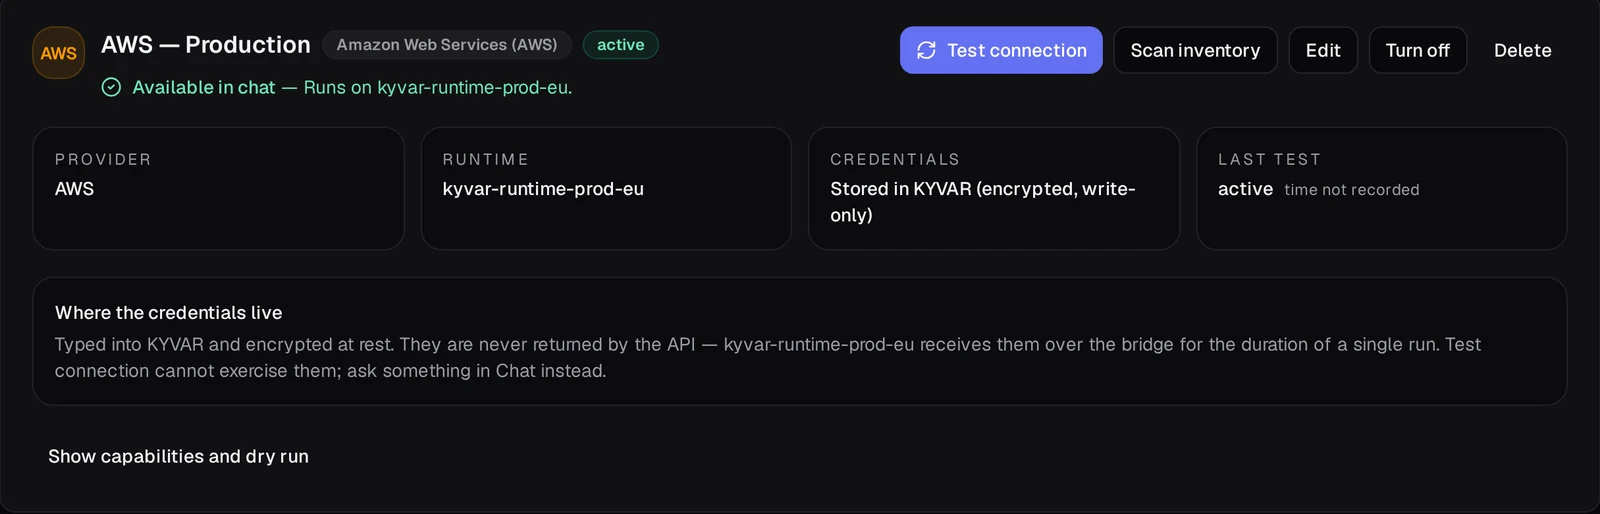
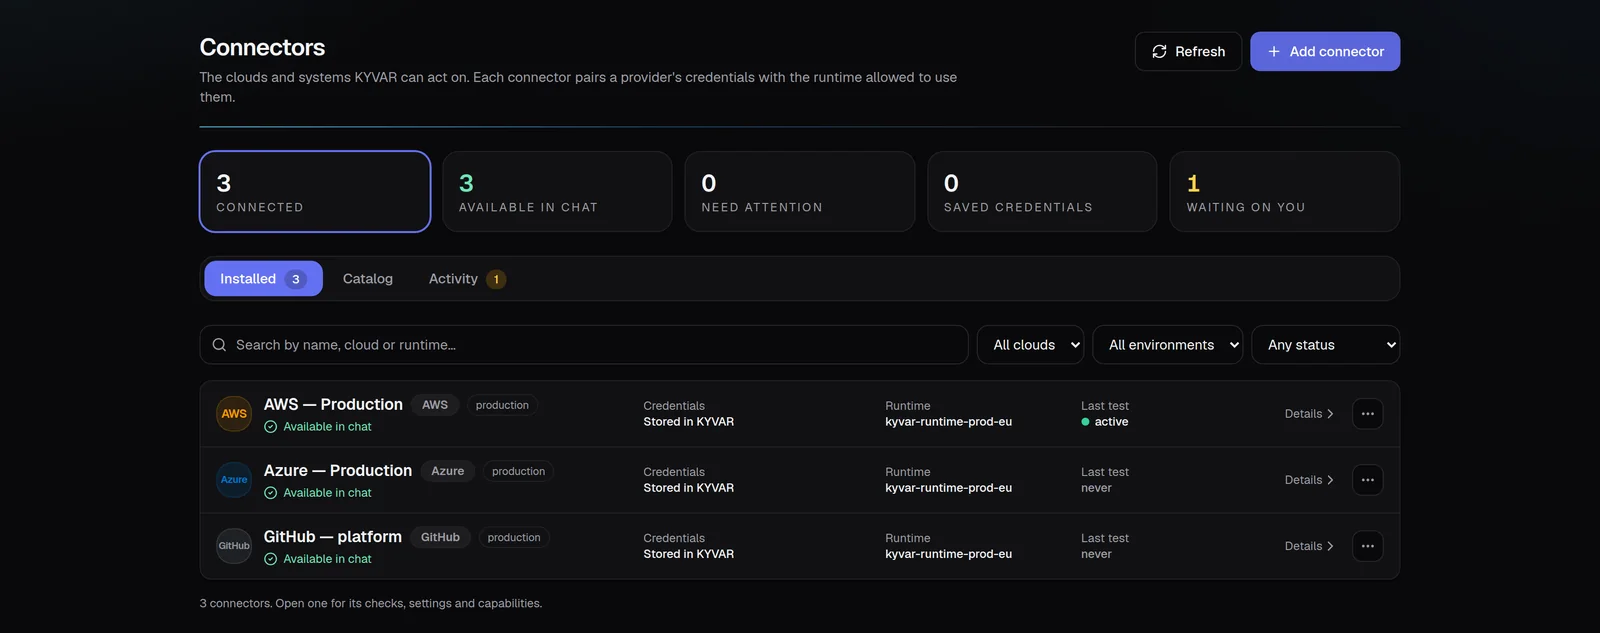
Refresh the product screenshots for the current console (#5)
Every frame recaptured from the current build on a staged, production-shaped
estate (AWS + Azure + GitHub connectors, one runtime, a real governed run,
a parked approval, incidents in three states, a CNAPP finding on the asset
it belongs to), dark and light, cropped to the card that carries the point
so each shot shows one thing instead of a scroll of text.

- Replaced: overview, chat, approvals, monitors, inventory (list, assets,
  map), connectors, runtimes, runs.
- New: incidents (Day 2 beside monitors), run detail (the record a reviewer
  opens, on Security), and an "On your phone" section with the chat on a
  390px screen and the push-notifications card.
- Captions shortened to one sentence each.
- A shotframe outside the .shots grid needs min-width:0 on its column, or
  the 780px swipe image pans the whole page sideways on a phone (measured).

Claude-Session: https://claude.ai/code/session_01PDNJC8ud13upLgmMcDyu2R

diff --git a/index.html b/index.html
@@ -165,23 +165,23 @@
     <div class="wide">
       <div class="shotframe">
         <div class="shotbar"><i></i><i></i><i></i><span>app.kyvar.io — Operations overview</span></div>
-        <picture><source srcset="assets/screenshots/overview-light.webp" media="(prefers-color-scheme: light)"><img src="assets/screenshots/overview.webp" alt="KYVAR operations overview: connected architecture, runtimes online, runs, approvals waiting and inventory" width="1600" height="961"></picture>
+        <picture><source srcset="assets/screenshots/overview-light.webp" media="(prefers-color-scheme: light)"><img src="assets/screenshots/overview.webp" alt="KYVAR operations overview: readiness, what needs a person, and the connected architecture from tenant to clouds" width="1600" height="664"></picture>
       </div>
-      <div class="shotcap">The estate at a glance: connected architecture from tenant to clouds, runtimes online, runs, approvals waiting on you, and everything discovered — one operational view.</div>
+      <div class="shotcap">The estate at a glance: can KYVAR run right now, what needs a person, and the live architecture from tenant to clouds.</div>
     </div>
     <div class="wide">
       <div class="shotframe">
         <div class="shotbar"><i></i><i></i><i></i><span>app.kyvar.io — Chat · governed run</span></div>
-        <picture><source srcset="assets/screenshots/chat-approval-light.webp" media="(prefers-color-scheme: light)"><img src="assets/screenshots/chat-approval.webp" alt="KYVAR chat: a CVE patched through a governed run, with the next change waiting for approval" width="1590" height="1000" loading="lazy"></picture>
+        <picture><source srcset="assets/screenshots/chat-approval-light.webp" media="(prefers-color-scheme: light)"><img src="assets/screenshots/chat-approval.webp" alt="KYVAR chat: a CVE patched through a governed run — the steps it took, what changed, how long it took — and the next change waiting for approval" width="1600" height="893" loading="lazy"></picture>
       </div>
-      <div class="shotcap">One ask in plain English: a critical CVE patched with zero downtime — drained, upgraded, verified — and the next write parked on the approval gate.</div>
+      <div class="shotcap">One ask in plain English. The steps it took, what changed, how long it took — and the next write parked on the approval gate.</div>
     </div>
     <div class="wide">
       <div class="shotframe">
         <div class="shotbar"><i></i><i></i><i></i><span>app.kyvar.io — Approvals</span></div>
-        <picture><source srcset="assets/screenshots/approvals-light.webp" media="(prefers-color-scheme: light)"><img src="assets/screenshots/approvals.webp" alt="KYVAR approvals: a high-risk provisioning action held by policy until a person approves it" width="1600" height="296" loading="lazy"></picture>
+        <picture><source srcset="assets/screenshots/approvals-light.webp" media="(prefers-color-scheme: light)"><img src="assets/screenshots/approvals.webp" alt="KYVAR approvals: a provisioning request held by policy until a person approves it" width="1600" height="404" loading="lazy"></picture>
       </div>
-      <div class="shotcap">Nothing here runs until a person says yes: the matched policy rule and the exact word that tripped it, the risk class, and an approve or deny — one at a time or in bulk — whose reason lands in the audit trail.</div>
+      <div class="shotcap">Nothing runs until a person says yes: the rule that parked it, the word that tripped it, the risk — and a reason that lands in the audit trail.</div>
     </div>
   </div>
 </div></section>
@@ -207,13 +207,22 @@
   <div class="kicker">DAY 2 — OPERATE WITHOUT DRAMA</div>
   <h2>Detect. Heal. Prove it.</h2>
   <p>Automatic monitoring, incidents and self-healing run as one governed loop. Down at 03:14, an incident opened, diagnosed, remediated by the runbook you already wrote and re-verified — with a human woken only when policy wants one, and the whole story on one timeline.</p>
-  <div class="shots"><div class="wide">
-    <div class="shotframe">
-      <div class="shotbar"><i></i><i></i><i></i><span>app.kyvar.io — Monitors</span></div>
-      <picture><source srcset="assets/screenshots/monitors-light.webp" media="(prefers-color-scheme: light)"><img src="assets/screenshots/monitors.webp" alt="KYVAR monitors: scheduled health checks with autonomous remediation armed per monitor" width="1600" height="725" loading="lazy"></picture>
+  <div class="shots">
+    <div class="wide">
+      <div class="shotframe">
+        <div class="shotbar"><i></i><i></i><i></i><span>app.kyvar.io — Incidents</span></div>
+        <picture><source srcset="assets/screenshots/incidents-light.webp" media="(prefers-color-scheme: light)"><img src="assets/screenshots/incidents.webp" alt="KYVAR incidents: what is broken right now, who has it, and how it ended" width="1600" height="524" loading="lazy"></picture>
+      </div>
+      <div class="shotcap">What broke while nobody was watching, and where it stands — take it, investigate with KYVAR, or let the next check close it.</div>
     </div>
-    <div class="shotcap">Health checks on a schedule, with self-healing armed per monitor — off by default, on deliberately. Each check follows the same rules and leaves the same records as a chat request.</div>
-  </div></div>
+    <div class="wide">
+      <div class="shotframe">
+        <div class="shotbar"><i></i><i></i><i></i><span>app.kyvar.io — Monitors</span></div>
+        <picture><source srcset="assets/screenshots/monitors-light.webp" media="(prefers-color-scheme: light)"><img src="assets/screenshots/monitors.webp" alt="KYVAR monitors: a live probe and agent checks on a schedule, with self-healing armed per monitor" width="1600" height="1127" loading="lazy"></picture>
+      </div>
+      <div class="shotcap">Probes and agent checks on a schedule. Self-healing is armed per monitor — off by default, on deliberately.</div>
+    </div>
+  </div>
   <div class="cards">
     <div class="card"><b>Incidents, with an owner</b><p>What is broken right now, who has it, and how it ended. One open incident per monitor — a check failing every minute is one problem getting older, not sixty — resolved as “recovered” when the next check passes, or by the person who fixed it. Different facts, said differently.</p></div>
     <div class="card"><b>Remediation you already wrote</b><p>An unhealthy verdict can launch a named runbook or a multi-step workflow instead of an improvised fix — behind the same arming, threshold and cooldown. A procedure that was turned off or deleted suppresses with a reason; it never quietly improvises instead.</p></div>
@@ -221,18 +230,34 @@
   </div>
 </div></section>
 
+<!-- On your phone -->
+<section class="section" id="phone"><div class="grid">
+  <div class="reveal"><div class="kicker">ON YOUR PHONE</div>
+    <h2>The gate follows you.</h2>
+    <p>An approval parks, a monitor fires, and the person who has to decide is not at a desk. KYVAR installs to the home screen and reaches the phone with push notifications — alarms for the team, finished tasks for the person who asked — without opening anything inbound.</p>
+    <div class="shotframe" style="margin-top:22px">
+      <div class="shotbar"><i></i><i></i><i></i><span>app.kyvar.io — Security · Push notifications</span></div>
+      <picture><source srcset="assets/screenshots/security-push-light.webp" media="(prefers-color-scheme: light)"><img src="assets/screenshots/security-push.webp" alt="KYVAR push notifications: alarms and finished chat turns as system notifications on a phone or computer" width="1600" height="245" loading="lazy"></picture>
+    </div></div>
+  <div class="visual reveal phone-visual"><div class="phoneframe">
+    <img src="assets/screenshots/chat-phone.webp" alt="KYVAR on a phone: a governed run's steps, what changed, and the next change waiting for approval" width="780" height="1576" loading="lazy">
+  </div></div>
+</div></section>
+
 <!-- One estate -->
 <section class="section" id="estate"><div class="center reveal">
   <div class="kicker">ONE ESTATE, NOT ONE INVENTORY PER TOOL</div>
   <h2>Every source. One asset.</h2>
   <p>KYVAR discovers what lives behind every connector and links the rows that are the same real machine — matched on hard evidence, never a guess dressed as a fact. A security finding from one tool lands on the asset another cloud runs, and the fix flows through the connector that owns it.</p>
-  <div class="shots"><div class="wide">
-    <div class="shotframe">
-      <div class="shotbar"><i></i><i></i><i></i><span>app.kyvar.io — Inventory · Assets</span></div>
-      <picture><source srcset="assets/screenshots/inventory-assets-light.webp" media="(prefers-color-scheme: light)"><img src="assets/screenshots/inventory-assets.webp" alt="KYVAR inventory: one asset seen by two connectors, linked on the same public IP, with a critical CVE finding mapped to it" width="1600" height="483" loading="lazy"></picture>
+  <div class="shots">
+    <div class="wide">
+      <div class="shotframe">
+        <div class="shotbar"><i></i><i></i><i></i><span>app.kyvar.io — Inventory · Assets</span></div>
+        <picture><source srcset="assets/screenshots/inventory-assets-light.webp" media="(prefers-color-scheme: light)"><img src="assets/screenshots/inventory-assets.webp" alt="KYVAR inventory: one asset with its provider record and the CNAPP's critical CVE finding mapped straight onto it" width="1600" height="854" loading="lazy"></picture>
+      </div>
+      <div class="shotcap">One asset, every source that sees it — and the CNAPP's critical CVE mapped straight onto the machine that has to be fixed.</div>
     </div>
-    <div class="shotcap"><span class="linkline">⛓ Linked: same public IP — high confidence.</span> One asset seen by AWS and Azure, with the CNAPP's critical CVE mapped straight onto it.</div>
-  </div></div>
+  </div>
 </div></section>
 
 <!-- Proof points -->

diff --git a/architecture.html b/architecture.html
@@ -133,23 +133,23 @@
     <div class="wide">
       <div class="shotframe">
         <div class="shotbar"><i></i><i></i><i></i><span>app.kyvar.io — Connectors</span></div>
-        <picture><source srcset="assets/screenshots/connectors-light.webp" media="(prefers-color-scheme: light)"><img src="assets/screenshots/connectors.webp" alt="KYVAR connectors: each cloud's credentials paired with the one runtime allowed to use them" width="1600" height="514" loading="lazy"></picture>
+        <picture><source srcset="assets/screenshots/connectors-light.webp" media="(prefers-color-scheme: light)"><img src="assets/screenshots/connectors.webp" alt="KYVAR connectors: one row per connector — credentials stored in KYVAR, the runtime allowed to use them, the last test" width="1600" height="633" loading="lazy"></picture>
       </div>
-      <div class="shotcap">Each connector pairs a provider's credentials with the one runtime allowed to use them — encrypted at rest, write-only, never returned by an API.</div>
+      <div class="shotcap">One row per connector: credentials encrypted in KYVAR, the runtime allowed to use them, and the last test — never returned by an API.</div>
     </div>
-    <div>
+    <div class="wide">
       <div class="shotframe">
         <div class="shotbar"><i></i><i></i><i></i><span>app.kyvar.io — Runtimes</span></div>
-        <picture><source srcset="assets/screenshots/runtimes-light.webp" media="(prefers-color-scheme: light)"><img src="assets/screenshots/runtimes.webp" alt="KYVAR runtimes: an enrolled runtime with heartbeat, versions, capabilities and enrollment token flow" width="790" height="936" loading="lazy"></picture>
+        <picture><source srcset="assets/screenshots/runtimes-light.webp" media="(prefers-color-scheme: light)"><img src="assets/screenshots/runtimes.webp" alt="KYVAR runtimes: the fleet at a glance — ready, agent, model, load and heartbeat per runtime" width="1600" height="517" loading="lazy"></picture>
       </div>
-      <div class="shotcap">Every enrolled runtime with its heartbeat, versions and capabilities — and a one-time enrollment token, so a new host never touches your service token.</div>
+      <div class="shotcap">The fleet in one strip: ready or not, which agent and model, load and heartbeat — enrolled by a one-time token, never your service token.</div>
     </div>
-    <div>
+    <div class="wide">
       <div class="shotframe">
         <div class="shotbar"><i></i><i></i><i></i><span>app.kyvar.io — Inventory · Map</span></div>
-        <picture><source srcset="assets/screenshots/inventory-map-light.webp" media="(prefers-color-scheme: light)"><img src="assets/screenshots/inventory-map.webp" alt="KYVAR inventory map: VPCs, subnets and workloads per connector across AWS and Azure" width="1600" height="744" loading="lazy"></picture>
+        <picture><source srcset="assets/screenshots/inventory-map-light.webp" media="(prefers-color-scheme: light)"><img src="assets/screenshots/inventory-map.webp" alt="KYVAR inventory map: VPCs, subnets and workloads per connector across AWS and Azure" width="1600" height="847" loading="lazy"></picture>
       </div>
-      <div class="shotcap">The estate mapped per connector — VPCs, subnets and workloads across AWS and Azure, with managed assets marked and cross-connector links inferred.</div>
+      <div class="shotcap">The estate per connector — VPCs, subnets and workloads across AWS and Azure, managed assets marked, cross-connector links inferred.</div>
     </div>
   </div>
 </div></section>

diff --git a/security.html b/security.html
@@ -153,17 +153,24 @@
   <div class="shots">
     <div class="wide">
       <div class="shotframe">
-        <div class="shotbar"><i></i><i></i><i></i><span>app.kyvar.io — Inventory · findings</span></div>
-        <picture><source srcset="assets/screenshots/inventory-list-light.webp" media="(prefers-color-scheme: light)"><img src="assets/screenshots/inventory-list.webp" alt="KYVAR inventory list with security findings as first-class objects, mapped to the assets that own them" width="1600" height="869" loading="lazy"></picture>
+        <div class="shotbar"><i></i><i></i><i></i><span>app.kyvar.io — Inventory</span></div>
+        <picture><source srcset="assets/screenshots/inventory-list-light.webp" media="(prefers-color-scheme: light)"><img src="assets/screenshots/inventory-list.webp" alt="KYVAR inventory list: everything discovered, filterable by type, with security findings as first-class rows" width="1600" height="906" loading="lazy"></picture>
       </div>
-      <div class="shotcap">Findings are first-class inventory: a CNAPP finding lands on the asset that owns it, filterable and tracked from open to closed.</div>
+      <div class="shotcap">Everything discovered, filterable — managed assets are the ones KYVAR watches and acts on; findings are rows like any other.</div>
     </div>
     <div class="wide">
       <div class="shotframe">
         <div class="shotbar"><i></i><i></i><i></i><span>app.kyvar.io — Runs</span></div>
-        <picture><source srcset="assets/screenshots/runs-light.webp" media="(prefers-color-scheme: light)"><img src="assets/screenshots/runs.webp" alt="KYVAR runs: every action recorded with its runtime, status and full story" width="1600" height="397" loading="lazy"></picture>
+        <picture><source srcset="assets/screenshots/runs-light.webp" media="(prefers-color-scheme: light)"><img src="assets/screenshots/runs.webp" alt="KYVAR runs: every action recorded with who asked, how long it took, and what is still held" width="1600" height="596" loading="lazy"></picture>
       </div>
-      <div class="shotcap">Everything KYVAR has run, with the full story behind each one — who asked, which runtime executed, what completed and what is still held for approval.</div>
+      <div class="shotcap">Everything KYVAR has run — who asked, which runtime, how long it took, and what is still held for approval.</div>
+    </div>
+    <div class="wide">
+      <div class="shotframe">
+        <div class="shotbar"><i></i><i></i><i></i><span>app.kyvar.io — Run · the record</span></div>
+        <picture><source srcset="assets/screenshots/run-detail-light.webp" media="(prefers-color-scheme: light)"><img src="assets/screenshots/run-detail.webp" alt="KYVAR run detail: the answer, the steps it took, what changed, and the timeline behind it" width="1600" height="779" loading="lazy"></picture>
+      </div>
+      <div class="shotcap">Every run has a record: the answer, the steps, what changed, and the timeline behind it — what a reviewer opens.</div>
     </div>
   </div>
 </div></section>

diff --git a/assets/site.css b/assets/site.css
@@ -428,3 +428,16 @@ a.card:hover{border-color:var(--accent);transform:translateY(-3px)}
   .cbanner-btns{width:100%}
   .cbtn{flex:1;min-width:0}
 }
+
+/* The phone frame on the "On your phone" section: a device-shaped column,
+   never a swipe box — the image is 780px wide, so the mobile swipe rule
+   (keyed on width="1600") leaves it alone. */
+.phone-visual{padding:34px 24px}
+.phoneframe{width:min(300px,100%);margin:0 auto;border-radius:34px;overflow:hidden;border:1px solid var(--line);background:var(--shot-bg,#081322);box-shadow:0 30px 80px rgba(2,8,20,.35)}
+.phoneframe img{display:block;width:100%;height:auto}
+@media (prefers-color-scheme: light){:root:not([data-theme="dark"]) .phoneframe{--shot-bg:#fbfdff;box-shadow:0 26px 60px rgba(30,55,90,.14)}}
+:root[data-theme="light"] .phoneframe{--shot-bg:#fbfdff;box-shadow:0 26px 60px rgba(30,55,90,.14)}
+/* A shotframe inside a text column (not the .shots grid) must be allowed to
+   shrink, or its 780px swipe image sets the column's min-content and the
+   whole page pans sideways on a phone — the same rule .shots>div carries. */
+#phone .grid>div{min-width:0}
